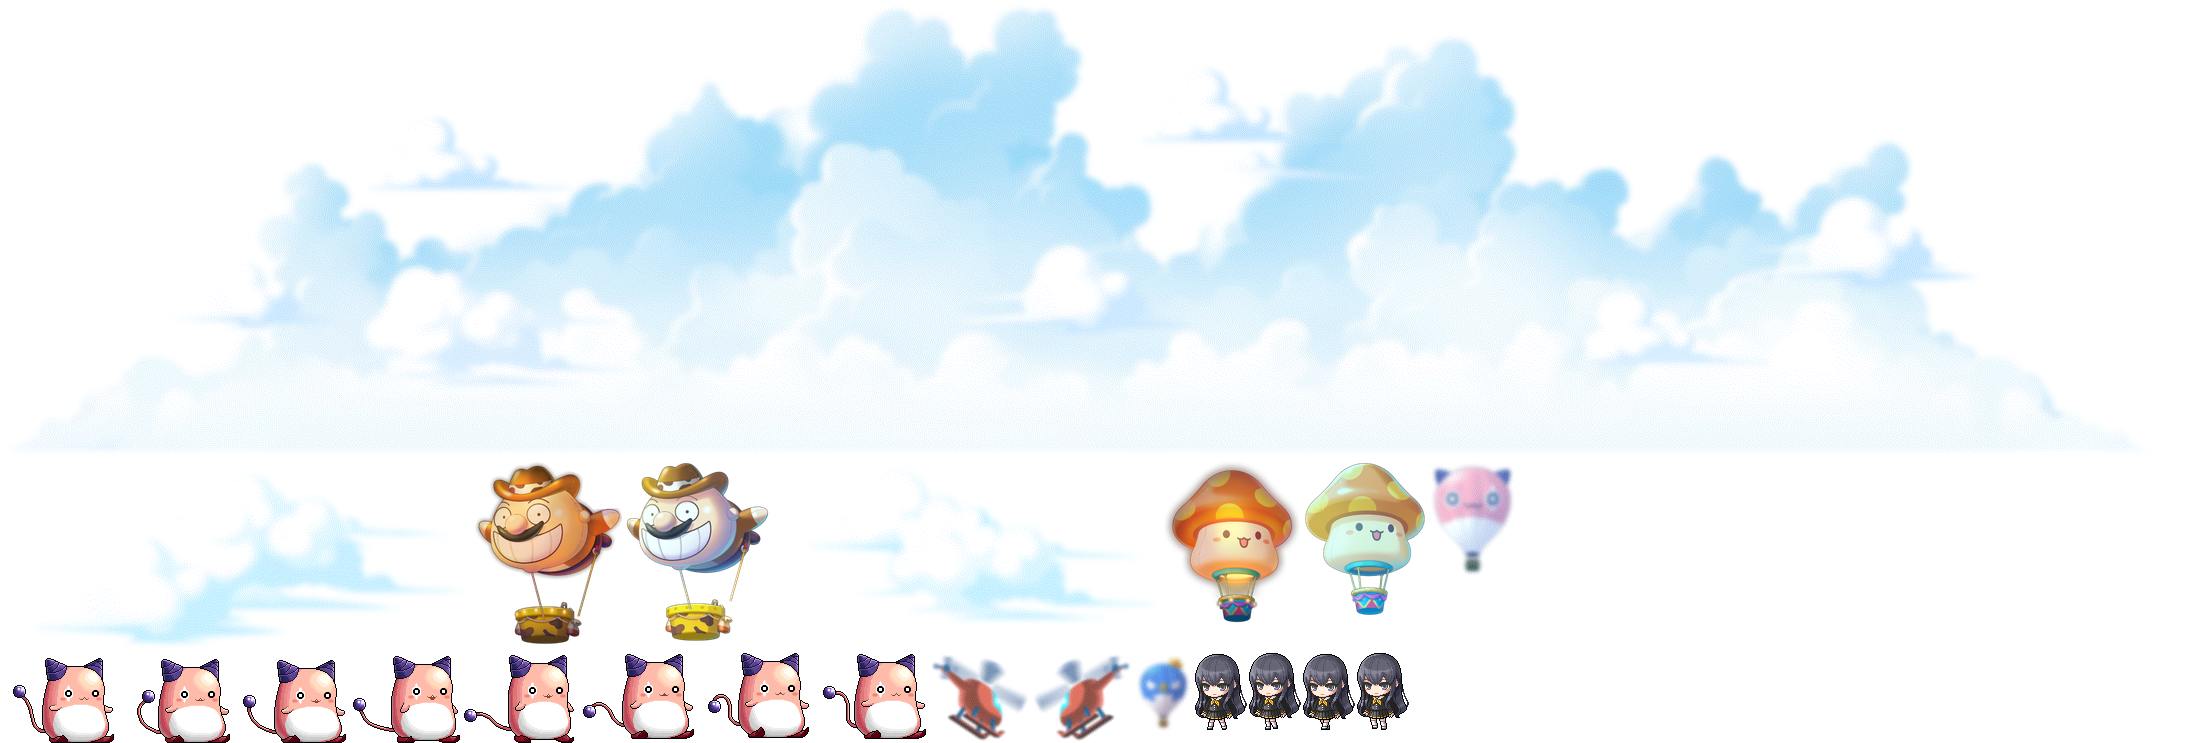
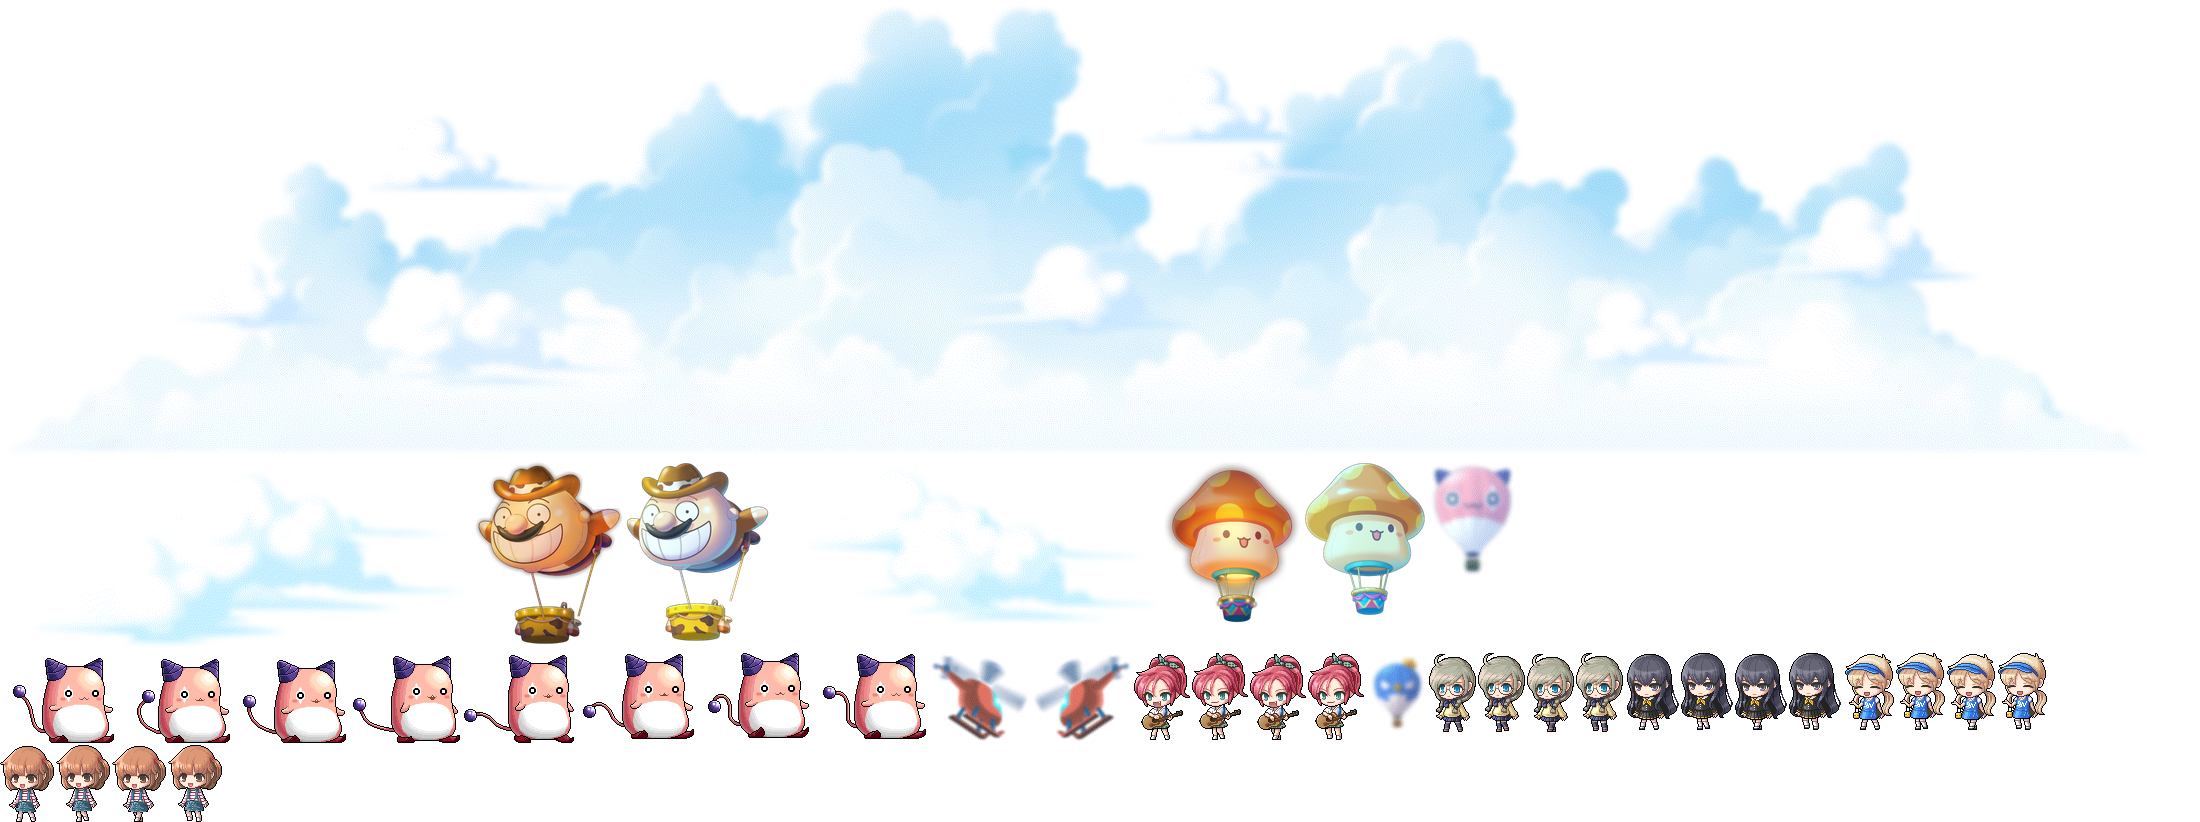
거리: 커닝 타워의 사피 · 디아 · 루비 · 페리가 걸어 다닌다, 배경 보기의 전환을 모달처럼
- 걷는 이 여섯(핑크빈 + 아이돌 다섯): 저마다 랜덤한 방향 · 빠르기 · 간격, 한둘만 보이게 오래 쉰다
- 배경 보기: main 과 하단 바가 함께 10px 내려가며 사라지고 올라오며 나타난다(양방향)

diff --git a/src/components/shop/scene/sceneData.ts b/src/components/shop/scene/sceneData.ts
@@ -1,5 +1,5 @@
 // parser/scripts/scene-build.cjs 가 만든다. 손으로 고치지 않는다.
 // 좌표는 그림 픽셀(왼쪽 위 원점). sprites: [종류, 아틀라스 x, y, w, h, 장면 x, y, 빠르기 배수 | 걷는 그림 장수, 흔들리는 박자(-1 = 알아서) | 장 사이 간격]
 // 종류 0 구름 · 1 열기구 · 2 헬리콥터 · 9 오른쪽으로 걷는 이 · 10 왼쪽으로 걷는 이 · 11 열기구의 밤 그림
-export const STREET: { w: number; h: number; far: { y: number; h: number }; main: { y: number; h: number }; atlas: number[]; sprites: number[][] } = {"w":4096,"h":1000,"far":{"y":118,"h":722},"main":{"y":98,"h":902},"atlas":[2200,743],"sprites":[[0,0,0,2155,459,-431,154,1,-1],[0,0,0,2155,459,1724,154,1,-1],[0,0,0,2155,459,3879,154,1,-1],[0,774,461,387,166,1119,86,1,-1],[0,774,461,387,166,2919,86,1,-1],[0,0,461,472,190,169,11,1,-1],[0,0,461,472,190,1669,11,1,-1],[0,0,461,472,190,3169,11,1,-1],[1,1134,653,59,80,3033,158,1,-1],[1,1134,653,59,80,2555,254,1,-1],[1,1134,653,59,80,810,206,1,-1],[1,1429,461,88,116,2452,156,1,-1],[1,1429,461,88,116,240,122,1,-1],[1,1429,461,88,116,4022,134,1,-1],[1,1303,461,124,156,1100,92,0.75,0.13],[1,625,461,147,182,2560,84,-1.25,0.57],[2,930,653,100,89,1864,335,1,-1],[2,1032,653,100,89,2285,286,1,-1],[9,0,653,114,90,0,748,8,116],[10,1195,653,52,77,0,762,4,54],[11,1163,461,138,164,1093,88,0.75,0.13],[11,474,461,149,183,2559,83,-1.25,0.57]]}
+export const STREET: { w: number; h: number; far: { y: number; h: number }; main: { y: number; h: number }; atlas: number[]; sprites: number[][] } = {"w":4096,"h":1000,"far":{"y":118,"h":722},"main":{"y":98,"h":902},"atlas":[2200,822],"sprites":[[0,0,0,2155,459,-431,154,1,-1],[0,0,0,2155,459,1724,154,1,-1],[0,0,0,2155,459,3879,154,1,-1],[0,774,461,387,166,1119,86,1,-1],[0,774,461,387,166,2919,86,1,-1],[0,0,461,472,190,169,11,1,-1],[0,0,461,472,190,1669,11,1,-1],[0,0,461,472,190,3169,11,1,-1],[1,1368,653,59,80,3033,158,1,-1],[1,1368,653,59,80,2555,254,1,-1],[1,1368,653,59,80,810,206,1,-1],[1,1429,461,88,116,2452,156,1,-1],[1,1429,461,88,116,240,122,1,-1],[1,1429,461,88,116,4022,134,1,-1],[1,1303,461,124,156,1100,92,0.75,0.13],[1,625,461,147,182,2560,84,-1.25,0.57],[2,930,653,100,89,1864,335,1,-1],[2,1032,653,100,89,2285,286,1,-1],[9,0,653,114,90,0,748,8,116],[10,1627,653,52,77,0,762,4,54],[10,1845,653,49,77,0,762,4,51],[10,0,745,54,77,0,762,4,56],[10,1134,653,56,87,0,752,4,58],[10,1429,653,47,79,0,760,4,49],[11,1163,461,138,164,1093,88,0.75,0.13],[11,474,461,149,183,2559,83,-1.25,0.57]]}
 export const ROOM = {"w":956,"h":538,"foot":[478,414]}

diff --git a/src/components/shop/scene/sceneGl.ts b/src/components/shop/scene/sceneGl.ts
@@ -205,7 +205,7 @@ interface Mover { type: number; w: number; mult: number; frames: number; x: numb
 const MOVE = [
   { speed: [4.2, 6], gap: [4, 26], jit: 26 },
   { speed: [9, 16], gap: [14, 60], jit: 24 },
-  { speed: [28, 40], gap: [10, 48], jit: 0 },
+  { speed: [26, 42], gap: [25, 95], jit: 0 },   // 걷는 이는 여섯이라 저마다 오래 쉰다 — 거리에 한둘만 보이게
 ]
 const PAUSE = { chance: 0.5, sec: [3, 6] }    // 걷는 이가 도중에 멈춰 서는 비율과 시간
 const rnd = (r: number[]) => r[0] + Math.random() * (r[1] - r[0])
@@ -223,6 +223,7 @@ function spawn(m: Mover, left: number, right: number) {
 function initMovers(left: number, right: number): Mover[] {
   const count = [0, 0, 0], seen = [0, 0, 0]
   for (const d of moverDefs) count[d.type]++
+  const first = Math.floor(Math.random() * count[2])   // 걷는 이 가운데 곧바로 들어올 하나
   return moverDefs.map((d) => {
     const m: Mover = { ...d, x: -1e5, dir: 1, speed: 0, wait: 0, jit: 0, walk: 0, pauseAt: NaN, pause: 0 }
     const i = seen[d.type]++
@@ -230,7 +231,8 @@ function initMovers(left: number, right: number): Mover[] {
     // 처음: 열기구는 하늘에 고루 떠 있고, 헬리콥터 하나도 떠 있다. 걷는 이는 하나가 곧 들어오고 나머지는 사이를 두고 온다
     if (d.type === 0) m.x = left + ((i + 0.15 + 0.7 * Math.random()) / count[0]) * (right - left)
     else if (d.type === 1 && i === 0) m.x = left + (0.2 + 0.6 * Math.random()) * (right - left)
-    else m.wait = d.type === 2 && i === 0 ? 1 + Math.random() * 3 : rnd(MOVE[d.type].gap) * (0.4 + 0.6 * i)
+    else if (d.type === 2) m.wait = i === first ? 1 + Math.random() * 3 : 6 + Math.random() * MOVE[2].gap[1] * 1.3
+    else m.wait = rnd(MOVE[d.type].gap)
     return m
   })
 }

diff --git a/src/app/globals.css b/src/app/globals.css
@@ -207,6 +207,8 @@ html[data-pb-csr] [data-pb-stub='side'] { flex: 0 0 360px; }
 /* 화면엔 안 보이지만 크롤러·스크린리더는 읽는 콘텐츠(접근성/SEO). */
 .sr-only { position: absolute; width: 1px; height: 1px; padding: 0; margin: -1px; overflow: hidden; clip: rect(0,0,0,0); white-space: nowrap; border: 0; }
 
-/* 배경 보기(PC 헤더의 버튼): 헤더만 남기고 본문과 하단 바를 감춘다. 자리는 그대로 두어(visibility) 돌아올 때 배치가 흔들리지 않는다. */
-[data-pb-body] { transition: opacity .25s ease, visibility 0s; }
-html[data-pb-bgonly] [data-pb-body] { opacity: 0; visibility: hidden; transition: opacity .25s ease, visibility 0s .25s; }
+/* 배경 보기(PC 헤더의 버튼): 헤더만 남기고 본문(main)과 하단 바를 함께 감춘다. 모달과 같은 움직임 — 10px 내려가며 사라지고 올라오며 나타난다
+   (surface.module.css 의 .panel 과 같은 시간 · 곡선). 자리는 그대로 두어(visibility) 돌아올 때 배치가 흔들리지 않는다.
+   ⚠ 감출 요소에 직접 붙인다: display:contents 로 감싼 칸에는 opacity · transform 이 먹지 않아 툭 사라진다. */
+[data-pb-body] { transition: transform .26s cubic-bezier(.45,0,.55,1), opacity .22s ease, visibility 0s; }
+html[data-pb-bgonly] [data-pb-body] { opacity: 0; transform: translateY(10px); visibility: hidden; transition: transform .26s cubic-bezier(.45,0,.55,1), opacity .22s ease, visibility 0s .26s; }

diff --git a/src/components/shop/frame/frame.module.css b/src/components/shop/frame/frame.module.css
@@ -24,8 +24,6 @@
 .logoImg { width: 30px; height: 30px; border-radius: 50%; object-fit: cover; flex: 0 0 auto; }
 .logoText { font-size: 17px; font-weight: 700; letter-spacing: -0.02em; white-space: nowrap; background: linear-gradient(100deg,#e5699a,#e894bb 55%,#b978d6); -webkit-background-clip: text; background-clip: text; -webkit-text-fill-color: transparent; }
 .headerActs { display: flex; align-items: center; gap: 8px; flex: 0 0 auto; height: 100%; }
-/* 배경 보기 동안 감출 수 있게 하단 바를 감싼 칸 — 배치에는 끼어들지 않는다 */
-.navSlot { display: contents; }
 .rateBtn { display: flex; align-items: center; gap: 6px; height: 100%; padding: 0 16px; background: #fff; border: 1px solid #efe6dc; border-radius: 12px; font-size: 13px; font-weight: 500; color: #a8748f; letter-spacing: -0.01em; cursor: pointer; white-space: nowrap; }
 .copyBtn { display: flex; align-items: center; gap: 6px; height: 100%; padding: 0 18px; border: none; background: #ec86ac; border-radius: 12px; font-size: 13px; font-weight: 600; color: #fff; letter-spacing: -0.01em; cursor: pointer; white-space: nowrap; }
 

diff --git a/src/components/shop/nav/BottomNav.tsx b/src/components/shop/nav/BottomNav.tsx
@@ -108,7 +108,7 @@ export default function BottomNav({ mobile }: { mobile: boolean }) {
   }
 
   return (
-    <div className={styles.bottom}>
+    <div className={styles.bottom} data-pb-body>
       <div className={clsx('pb-partnav', styles.partNav)}>
         <nav ref={railRef} className={clsx('pb-norail', styles.rail)} aria-label={plaza ? '분류' : '부위'}>
           {chips.map((c) => (

diff --git a/src/components/PinkbeanShop.tsx b/src/components/PinkbeanShop.tsx
@@ -73,7 +73,7 @@ function Shell() {
               <div data-pb-stub="main" aria-hidden />
               <div data-pb-stub="side" aria-hidden />
             </main>
-            <div data-pb-body className={styles.navSlot}><BottomNav mobile={false} /></div>
+            <BottomNav mobile={false} />
           </div>
         </div>
       )}
